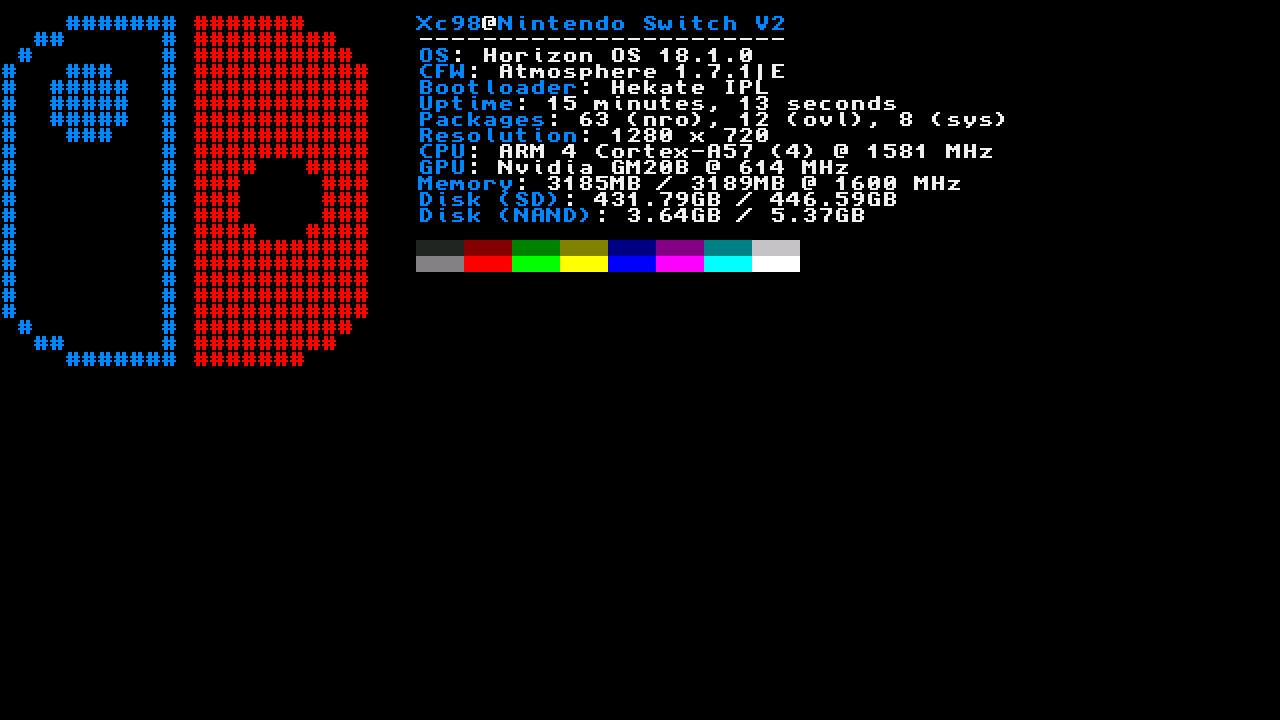
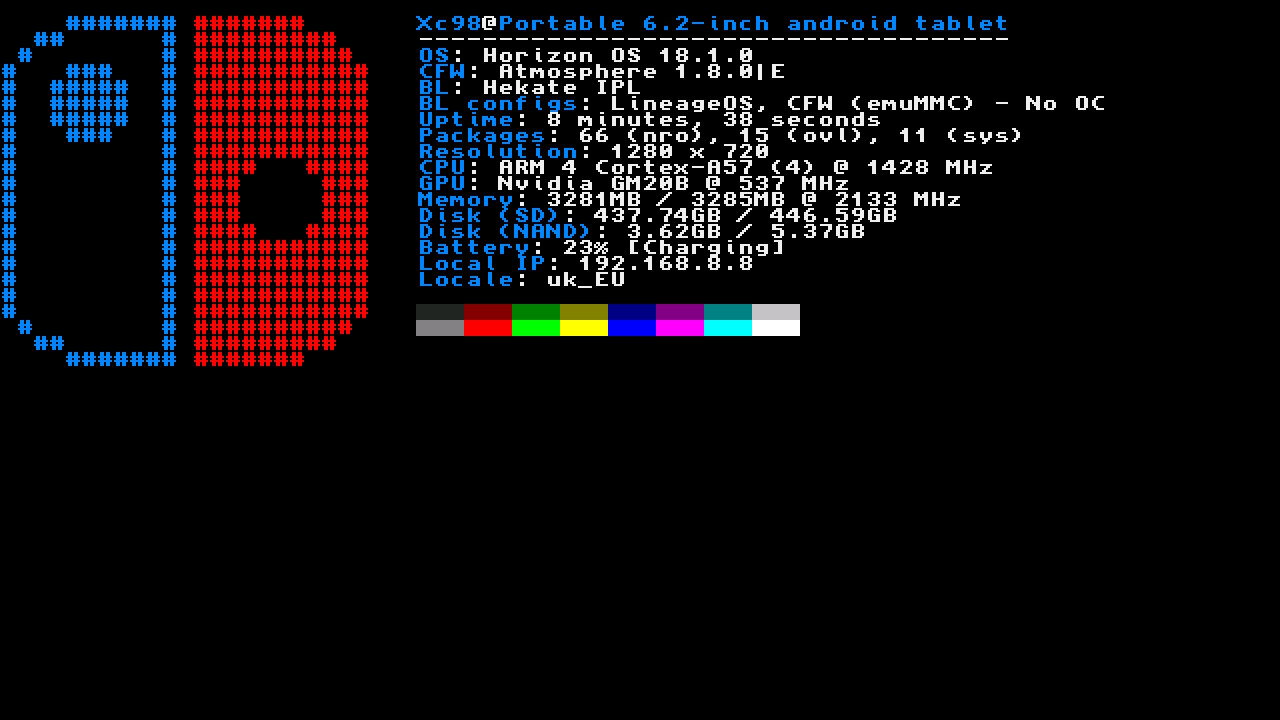
print local ip and locale, bump version

diff --git a/src/main.c b/src/main.c
@@ -1,13 +1,48 @@
-#include <stdio.h>
 #include <string.h>
+#include <stdio.h>
+#include <stdlib.h>
 #include <switch.h>
+#include <unistd.h>
+#include <arpa/inet.h>
 #include <dirent.h>
-#include <sys/stat.h>
 
 bool both = false;
 bool userflag = false;
 int selected = 1;
 
+const char* getRegionName(u64 region) {
+    switch (region) {
+        case SetRegion_JPN: return "JP";
+        case SetRegion_USA: return "US";
+        case SetRegion_EUR: return "EU";
+        case SetRegion_AUS: return "AU";
+        case SetRegion_HTK: return "HK";
+        case SetRegion_CHN: return "CN";
+        default: return "Unknown";
+    }
+}
+const char* GetLanguageName(u64 languageCode) {
+    switch (languageCode) {
+        case SetLanguage_JA: return "jp";
+        case SetLanguage_ENUS: return "us";
+        case SetLanguage_ENGB: return "uk";
+        case SetLanguage_FR: return "fr";
+        case SetLanguage_DE: return "de";
+        case SetLanguage_IT: return "it";
+        case SetLanguage_ES: return "es";
+        case SetLanguage_ZHCN: return "cn";
+        case SetLanguage_KO: return "kr";
+        case SetLanguage_NL: return "nl";
+        case SetLanguage_PT: return "pt";
+        case SetLanguage_RU: return "ru";
+        case SetLanguage_ZHTW: return "cn";
+        case SetLanguage_FRCA: return "fr";
+        case SetLanguage_ES419: return "es";
+        case SetLanguage_ZHHANS: return "cn";
+        case SetLanguage_ZHHANT: return "cn";
+        default: return "Unknown";
+    }
+}
 u32 GetClock(PcvModule module) {
     u32 out = 0;
     if (hosversionAtLeast(8, 0, 0)) {
@@ -367,10 +402,39 @@ int main(int argc, char **argv) {
         printf(" [Discharging]");
     }
     psmExit();
-    // Fancy color blocks
+    // Local IP
+    nifmInitialize(NifmServiceType_User);
+    NifmInternetConnectionStatus status;
+    rc = nifmGetInternetConnectionStatus(NULL, NULL, &status);
+    if (R_FAILED(rc)) {
+        printf(CONSOLE_ESC(17;27H));
+        printf("\e[38;5;33mLocal IP\e[38;5;255m: Not connected!");
+    } else if (status == NifmInternetConnectionStatus_Connected) {
+        u32 local_ip = gethostid();
+        struct in_addr addr;
+        addr.s_addr = local_ip;
+        char* ip_str = inet_ntoa(addr);
+        printf(CONSOLE_ESC(17;27H));
+        printf("\e[38;5;33mLocal IP\e[38;5;255m: %s", ip_str);
+    } else {
+        printf("\x1b[20;16HNo active network connection");
+    }
+    nifmExit();
+    // Locale
+    setInitialize();
+    u64 languageCode = 0;
+    rc = setGetSystemLanguage(&languageCode);
+    SetLanguage makeLanguage = 0;
+    rc = setMakeLanguage(languageCode, &makeLanguage);
+    SetRegion regionCode = 0;
+    rc = setGetRegionCode(&regionCode);
     printf(CONSOLE_ESC(18;27H));
+    printf("\e[38;5;33mLocale\e[38;5;255m: %s_%s\n", GetLanguageName(makeLanguage), getRegionName(regionCode));
+    setExit();
+    // Fancy color blocks
+    printf(CONSOLE_ESC(20;27H));
     printf("\e[48;5;235m   \e[48;5;1m   \e[48;5;2m   \e[48;5;3m   \e[48;5;4m   \e[48;5;5m   \e[48;5;6m   \e[48;5;7m   \e[48;5;0m");
-    printf(CONSOLE_ESC(19;27H));
+    printf(CONSOLE_ESC(21;27H));
     printf("\e[48;5;8m   \e[48;5;9m   \e[48;5;10m   \e[48;5;11m   \e[48;5;12m   \e[48;5;13m   \e[48;5;14m   \e[48;5;15m   \e[48;5;0m");
     while (appletMainLoop()) {
         padUpdate(&pad);
